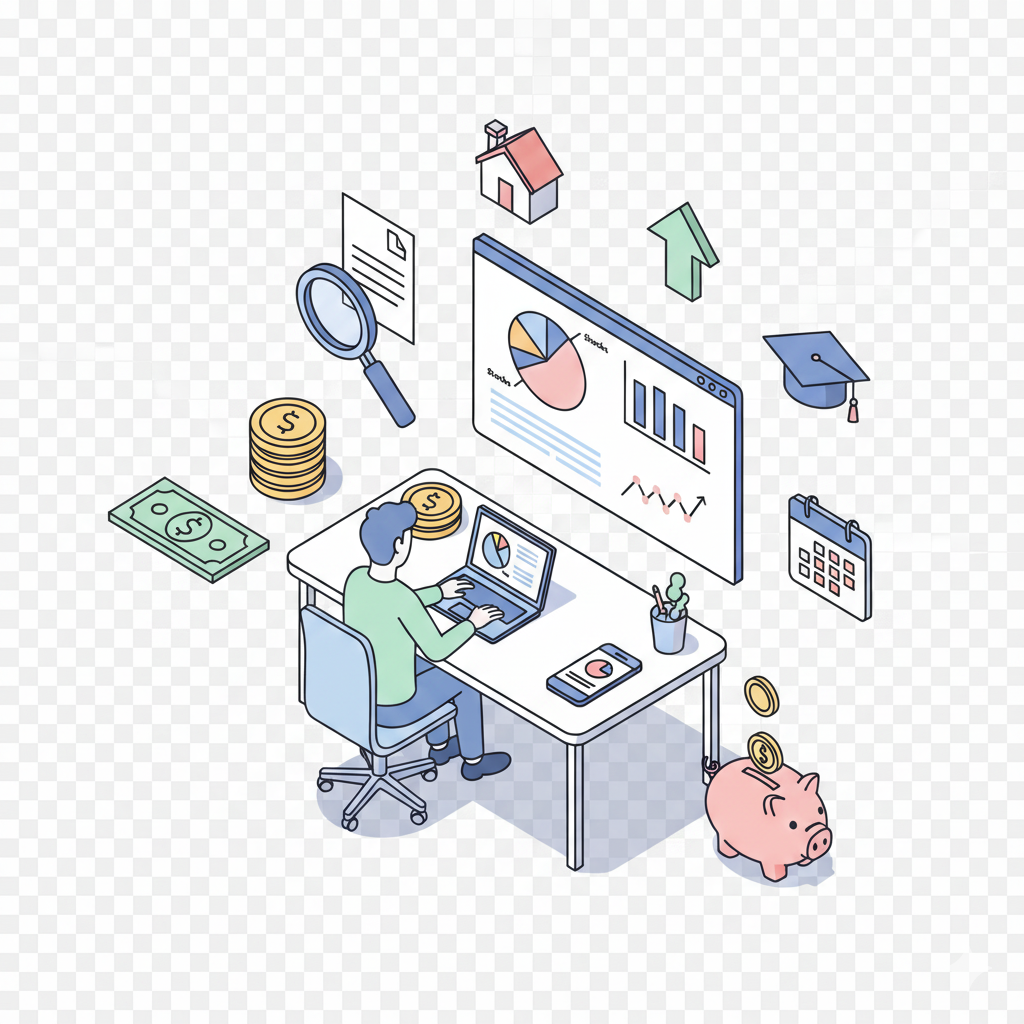
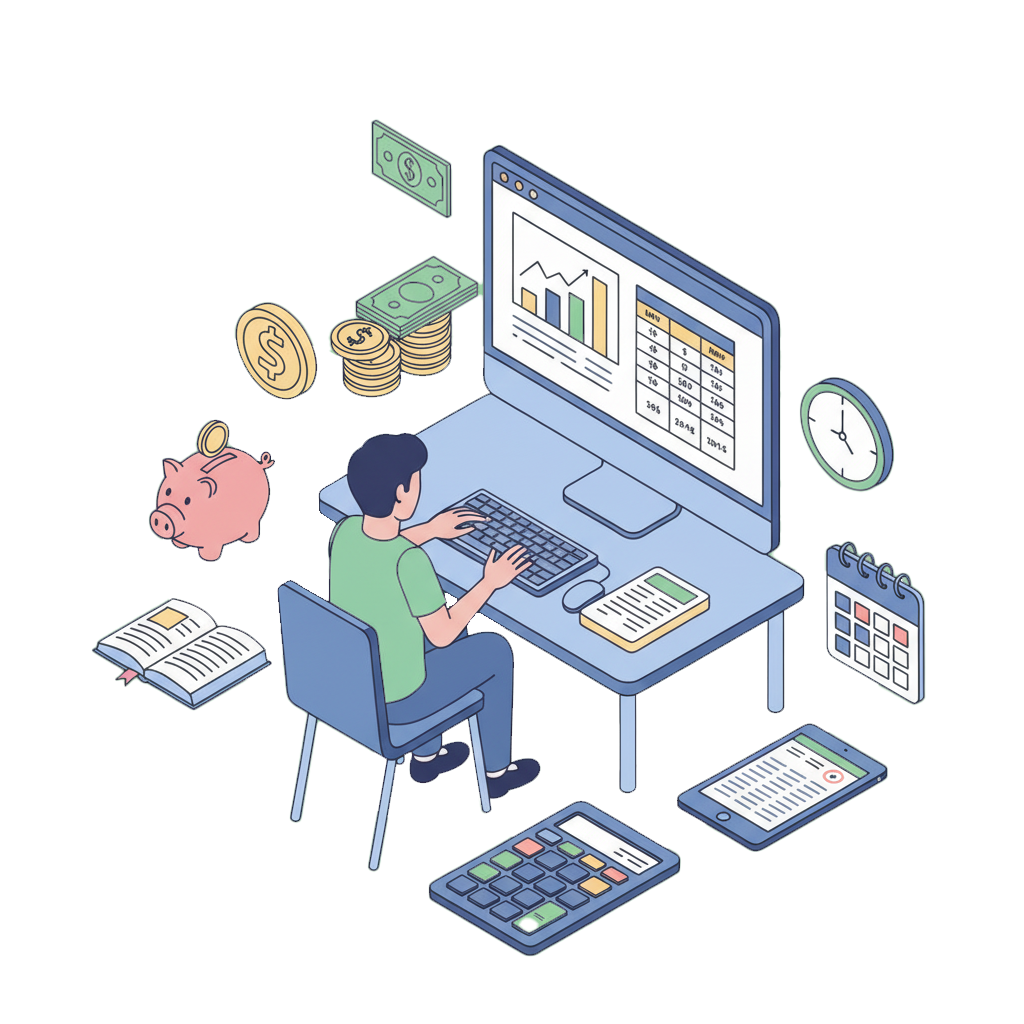
fix: carrossel fixed novas imagens add

diff --git a/base.html b/base.html
@@ -90,34 +90,109 @@
         <div class="container flex-fill">
             <!-- SECTION 1 - CARROSSEL -->
             <section class="carousel-section">
-                <div class="carousel-container">
-                    <div class="carousel-item active">
-                        <div class="carousel-content">
-                            <h1>
-                                Aprenda e descubra <br /><span class="highlight"
-                                    >em 8 anos</span
-                                >
-                                de experiência
-                            </h1>
-                            <p>
-                                Onde crescer seu negócio como desenvolvedor:
-                                site pessoal ou redes sociais?
-                            </p>
-                            <button>Registrar Agora</button>
+                <div
+                    id="carouselExampleIndicators"
+                    class="carousel slide"
+                    data-bs-ride="carousel">
+                    <div class="carousel-indicators">
+                        <button
+                            type="button"
+                            data-bs-target="#carouselExampleIndicators"
+                            data-bs-slide-to="0"
+                            class="active"
+                            aria-current="true"
+                            aria-label="Slide 1"></button>
+                        <button
+                            type="button"
+                            data-bs-target="#carouselExampleIndicators"
+                            data-bs-slide-to="1"
+                            aria-label="Slide 2"></button>
+                        <button
+                            type="button"
+                            data-bs-target="#carouselExampleIndicators"
+                            data-bs-slide-to="2"
+                            aria-label="Slide 3"></button>
+                    </div>
+
+                    <div class="carousel-inner">
+                        <div class="carousel-item active">
+                            <div class="row g-0 align-items-center p-5">
+                                <div
+                                    class="col-md-6 order-md-1 carousel-content">
+                                    <h1>
+                                        Sua contabilidade <br /><span
+                                            class="highlight"
+                                            >em um clique</span
+                                        >
+                                    </h1>
+                                    <p>
+                                        Otimize seu tempo e foque no crescimento
+                                        do seu negócio. Tenha as finanças da sua
+                                        empresa na palma da sua mão.
+                                    </p>
+                                </div>
+                                <div
+                                    class="col-md-6 order-md-2 carousel-illustration">
+                                    <img
+                                        src="static/images/carrossel01.png"
+                                        alt="Ilustração de Contabilidade"
+                                        class="d-block w-100 img-fluid" />
+                                </div>
+                            </div>
                         </div>
-                        <div class="carousel-illustration">
-                            <img
-                                src="static/images/carrossel01.png"
-                                alt="Ilustração de Desenvolvimento"
-                                style="max-width: 100%" />
+
+                        <div class="carousel-item">
+                            <div class="row g-0 align-items-center p-5">
+                                <div
+                                    class="col-md-6 order-md-1 carousel-content">
+                                    <h1>
+                                        Transforme sua gestão <br /><span
+                                            class="highlight"
+                                            >com BPO Financeiro</span
+                                        >
+                                    </h1>
+                                    <p>
+                                        Conte com especialistas para cuidar das
+                                        suas finanças e foque no que realmente
+                                        importa: seu negócio.
+                                    </p>
+                                </div>
+                                <div
+                                    class="col-md-6 order-md-2 carousel-illustration">
+                                    <img
+                                        src="static/images/carrossel02.png"
+                                        alt="Ilustração de BPO Financeiro"
+                                        class="d-block w-100 img-fluid" />
+                                </div>
+                            </div>
+                        </div>
+
+                        <div class="carousel-item">
+                            <div class="row g-0 align-items-center p-5">
+                                <div
+                                    class="col-md-6 order-md-1 carousel-content">
+                                    <h1>
+                                        Controle total <br /><span
+                                            class="highlight"
+                                            >da sua gestão financeira</span
+                                        >
+                                    </h1>
+                                    <p>
+                                        Tenha visibilidade completa das
+                                        receitas, despesas e fluxo de caixa para
+                                        tomar as melhores decisões.
+                                    </p>
+                                </div>
+                                <div
+                                    class="col-md-6 order-md-2 carousel-illustration">
+                                    <img
+                                        src="static/images/carrossel03.png"
+                                        alt="Ilustração de Gestão Financeira"
+                                        class="d-block w-100 img-fluid" />
+                                </div>
+                            </div>
                         </div>
                     </div>
-                </div>
-
-                <div class="carousel-indicators">
-                    <span class="carousel-indicator active"></span>
-                    <span class="carousel-indicator"></span>
-                    <span class="carousel-indicator"></span>
                 </div>
             </section>
         </div>
@@ -126,6 +201,6 @@
             src="https://cdn.jsdelivr.net/npm/bootstrap@5.3.8/dist/js/bootstrap.bundle.min.js"
             integrity="sha384-FKyoEForCGlyvwx9Hj09JcYn3nv7wiPVlz7YYwJrWVcXK/BmnVDxM+D2scQbITxI"
             crossorigin="anonymous"></script>
-        <script src="static/js/carrosselsection1.js"></script>
+        <script src="static/js/carrosselsection4.js"></script>
     </body>
 </html>

diff --git a/static/css/styles.css b/static/css/styles.css
@@ -90,151 +90,6 @@ html {
 /*  HEADER  */
 
 /* SECTION 1 - CARROSSEL */
-/* Estilos para a seção do carrossel */
-        .carousel-section {
-            width: 100%;
-            overflow: hidden; /* Garante que os itens do carrossel não transbordem */
-            position: relative;
-            background-color: #e0f2f7; /* Um azul muito claro para o fundo da seção */
-            padding: 50px 0; /* Espaçamento interno */
-        }
 
-        /* Estilo para o contêiner dos itens do carrossel */
-        .carousel-container {
-            display: flex; /* Para organizar os itens lado a lado */
-            transition: transform 0.5s ease-in-out; /* Animação para a transição dos itens */
-            /* Aqui o JavaScript manipularia o 'transform: translateX()' */
-        }
-
-        /* Estilo para cada item do carrossel */
-        .carousel-item {
-            min-width: 100%; /* Cada item ocupa a largura total do carrossel-container */
-            display: flex;
-            align-items: center;
-            justify-content: center;
-            padding: 40px 80px; /* Espaçamento interno para o conteúdo */
-            box-sizing: border-box; /* Inclui padding e borda na largura total */
-            flex-shrink: 0; /* Impede que os itens encolham */
-        }
-
-        /* Estilos para o conteúdo textual */
-        .carousel-content {
-            flex: 1; /* Ocupa o espaço restante */
-            max-width: 600px;
-            margin-right: 50px; /* Espaço entre o texto e a imagem */
-        }
-
-        .carousel-content h1 {
-            font-size: 3.5em; /* Aumenta o tamanho da fonte */
-            color: #333;
-            line-height: 1.1;
-            margin-bottom: 20px;
-        }
-
-        .carousel-content .highlight {
-            color: #007bff; /* Azul brilhante para o destaque */
-        }
-
-        .carousel-content p {
-            font-size: 1.2em;
-            color: #555;
-            margin-bottom: 30px;
-            line-height: 1.5;
-        }
-
-        .carousel-content button {
-            background-color: #007bff; /* Azul para o botão */
-            color: white;
-            padding: 15px 30px;
-            border: none;
-            border-radius: 5px;
-            font-size: 1.1em;
-            cursor: pointer;
-            transition: background-color 0.3s ease;
-        }
-
-        .carousel-content button:hover {
-            background-color: #0056b3; /* Azul mais escuro no hover */
-        }
-
-        /* Estilos para a imagem/ilustração */
-        .carousel-illustration {
-            flex: 1;
-            display: flex;
-            justify-content: flex-end; /* Alinha a imagem à direita */
-            align-items: center;
-            max-width: 500px; /* Largura máxima para a ilustração */
-        }
-
-        .carousel-illustration img {
-            max-width: 100%;
-            height: auto;
-            display: block; /* Remove espaço extra abaixo da imagem */
-        }
-
-        /* Indicadores de navegação (bolinhas) */
-        .carousel-indicators {
-    /* Centraliza os itens horizontalmente */
-        display: flex;
-        justify-content: center;
-        align-items: center;
-        gap: 10px; /* Espaço entre os botões */
-        
-        /* Posição na parte inferior do carrossel */
-        position: absolute;
-        bottom: 20px;
-        left: 0;
-        right: 0;
-        }
-
-        .carousel-indicator {
-        width: 30px; /* Largura do traço */
-        height: 5px; /* Altura do traço */
-        background-color: transparent; /* Remove o fundo */
-        border-bottom: 3px solid rgba(0, 123, 255, 0.4); /* Cria o traço azul transparente */
-        border-radius: 0; /* Remove a borda arredondada */
-        cursor: pointer;
-        transition: border-color 0.3s ease;
-        }
-
-        .carousel-indicator.active {
-            border-color: #007bff; /* Cor do traço ativo */
-        }
-
-        /* Responsividade básica */
-        @media (max-width: 992px) {
-            .carousel-item {
-                flex-direction: column; /* Empilha o conteúdo e a ilustração */
-                text-align: center;
-                padding: 30px 40px;
-            }
-
-            .carousel-content {
-                margin-right: 0;
-                margin-bottom: 30px; /* Espaço entre texto e imagem */
-            }
-
-            .carousel-illustration {
-                justify-content: center; /* Centraliza a imagem */
-            }
-
-            .carousel-content h1 {
-                font-size: 2.8em;
-            }
-
-            .carousel-content p {
-                font-size: 1em;
-            }
-        }
-
-        @media (max-width: 768px) {
-            .carousel-content h1 {
-                font-size: 2.2em;
-            }
-
-            .carousel-content p {
-                font-size: 0.9em;
-            }
-        }
 
 /* SECTION 1 - CARROSSEL */
